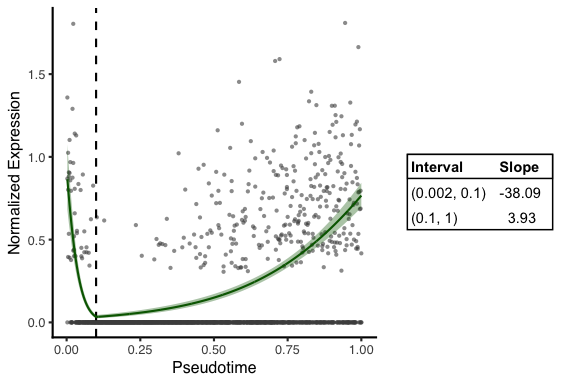
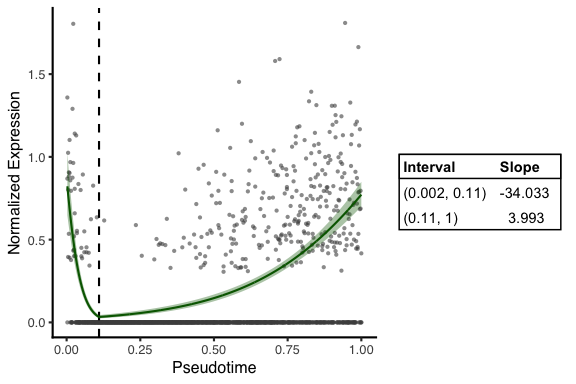
Recompiled README.Rmd

diff --git a/README.md b/README.md
@@ -25,7 +25,7 @@
 commit](https://img.shields.io/github/last-commit/jr-leary7/scLANE/main?color=darkgreen)
 [![codecov](https://codecov.io/gh/jr-leary7/scLANE/branch/main/graph/badge.svg?token=U2U5RTF2VW)](https://codecov.io/gh/jr-leary7/scLANE)
 [![CodeFactor](https://www.codefactor.io/repository/github/jr-leary7/sclane/badge)](https://www.codefactor.io/repository/github/jr-leary7/sclane)
-[![DOI](https://img.shields.io/static/v1?label=DOI&message=10.1101/2023.12.19.572477&color=blue)](https://doi.org/10.1101/2023.12.19.572477)
+[![Preprint](https://img.shields.io/static/v1?label=DOI&message=10.1101/2023.12.19.572477&color=blue)](https://doi.org/10.1101/2023.12.19.572477)
 [![License:
 MIT](https://img.shields.io/badge/License-MIT-yellow.svg)](https://opensource.org/licenses/MIT)
 <!-- badges: end -->
@@ -84,6 +84,7 @@ $\alpha = 0.01$ threshold, and classify it as static otherwise.
 library(dplyr)
 library(scLANE)
 library(ggplot2)
+library(SingleCellExperiment)
 ```
 
 ## Input data
@@ -98,7 +99,7 @@ pseudotime values are stored in the `colData` slot of the
 sim_data <- readRDS(url("https://zenodo.org/records/8433077/files/scLANE_sim_data.Rds"))
 ```
 
-The PCA embeddings show us a pretty simple trajectory that’s strongly
+The PCA embedding shows us a pretty simple trajectory that’s strongly
 correlated with the first principal component.
 
 ``` r
@@ -133,13 +134,13 @@ Since we have multi-subject data, we can use any of the three model
 modes to run our DE testing. We’ll start with the simplest model, the
 GLM, then work our way through the other options in order of increasing
 complexity. We first prepare our inputs - a dataframe containing our
-cell ordering, a set of genes to build models for, and a vector of
-per-cell size factors to be used as offsets during estimation. In
-reality, it’s usually unnecessary to fit a model for every single gene
-in a dataset, as trajectories are usually estimated using a subset of
-the entire set of genes (usually a few thousand most highly variable
-genes). For the purpose of demonstration, we’ll select 50 genes each
-from the dynamic and non-dynamic populations.
+pseudotime / latent time cellular ordering, a set of genes to build
+models for, and a vector of per-cell size factors to be used as offsets
+during estimation. In reality, it’s usually unnecessary to fit a model
+for every single gene in a dataset, as trajectories are usually
+estimated using a subset of the entire set of genes (usually a few
+thousand most highly variable genes). For the purpose of demonstration,
+we’ll select 50 genes each from the dynamic and non-dynamic populations.
 
 **Note:** In this case we’re working with a single pseudotime lineage,
 though in real datasets several lineages often exist; in order to fit
@@ -150,7 +151,7 @@ from the cell ordering dataframe passed as input to `testDynamic()`.
 set.seed(312)
 gene_sample <- c(sample(rownames(sim_data)[rowData(sim_data)$geneStatus_overall == "Dynamic"], size = 50), 
                  sample(rownames(sim_data)[rowData(sim_data)$geneStatus_overall == "NotDynamic"], size = 50))
-order_df <- data.frame(X = sim_data$cell_time_normed)
+pt_df <- data.frame(PT = sim_data$cell_time_normed)
 cell_offset <- createCellOffset(sim_data)
 ```
 
@@ -160,19 +161,19 @@ Running `testDynamic()` provides us with a nested list containing model
 output & DE test results for each gene over each pseudotime / latent
 time lineage. In this case, since we have a true cell ordering we only
 have one lineage. Parallel processing is turned on by default, and we
-use 4 cores here to speed up runtime.
+use 6 cores here to speed up runtime.
 
 ``` r
 scLANE_models_glm <- testDynamic(sim_data, 
-                                 pt = order_df, 
+                                 pt = pt_df, 
                                  genes = gene_sample, 
                                  size.factor.offset = cell_offset, 
-                                 n.cores = 4L, 
+                                 n.cores = 6L, 
                                  verbose = FALSE)
 #> Registered S3 method overwritten by 'bit':
 #>   method   from  
 #>   print.ri gamlss
-#> scLANE testing completed for 100 genes across 1 lineage in 19.707 secs
+#> scLANE testing completed for 100 genes across 1 lineage in 22.382 secs
 ```
 
 After the function finishes running, we use `getResultsDE()` to generate
@@ -192,11 +193,11 @@ select(scLANE_res_glm, Gene, Lineage, Test_Stat, P_Val, P_Val_Adj, Gene_Dynamic_
 
 | Gene   | Lineage | LRT stat. | P-value | Adj. p-value | Predicted dynamic status |
 |:-------|:--------|----------:|--------:|-------------:|-------------------------:|
-| MFSD2B | A       |   216.750 |   0.000 |        0.000 |                        1 |
-| TTC5   | A       |     5.481 |   0.019 |        0.346 |                        0 |
-| SMG1   | A       |     8.736 |   0.013 |        0.254 |                        0 |
-| TMCO3  | A       |   167.311 |   0.000 |        0.000 |                        1 |
-| FOXD3  | A       |     4.282 |   0.039 |        0.475 |                        0 |
+| MFSD2B | A       |   217.016 |   0.000 |        0.000 |                        1 |
+| LGR4   | A       |     6.685 |   0.035 |        1.000 |                        0 |
+| UAP1L1 | A       |     9.882 |   0.007 |        0.365 |                        0 |
+| TMCO3  | A       |   167.764 |   0.000 |        0.000 |                        1 |
+| MRTO4  | A       |     4.771 |   0.092 |        1.000 |                        0 |
 
 ### GEE mode
 
@@ -211,15 +212,15 @@ speeds things up considerably.
 
 ``` r
 scLANE_models_gee <- testDynamic(sim_data, 
-                                 pt = order_df, 
+                                 pt = pt_df, 
                                  genes = gene_sample, 
                                  size.factor.offset = cell_offset, 
                                  is.gee = TRUE, 
                                  id.vec = sim_data$subject, 
                                  cor.structure = "ar1", 
-                                 n.cores = 4L, 
+                                 n.cores = 6L, 
                                  verbose = FALSE)
-#> scLANE testing completed for 100 genes across 1 lineage in 1.638 mins
+#> scLANE testing completed for 100 genes across 1 lineage in 1.411 mins
 ```
 
 We again generate the table of DE test results. The variance of the
@@ -235,13 +236,13 @@ select(scLANE_res_gee, Gene, Lineage, Test_Stat, P_Val, P_Val_Adj, Gene_Dynamic_
                col.names = c("Gene", "Lineage", "Wald stat.", "P-value", "Adj. p-value", "Predicted dynamic status"))
 ```
 
-| Gene   | Lineage | Wald stat. | P-value | Adj. p-value | Predicted dynamic status |
-|:-------|:--------|-----------:|--------:|-------------:|-------------------------:|
-| BAD    | A       | 136315.561 |       0 |            0 |                        1 |
-| MPLKIP | A       |     29.814 |       0 |            0 |                        1 |
-| LY6G5C | A       |         NA |      NA |           NA |                        0 |
-| PCF11  | A       |   4336.078 |       0 |            0 |                        1 |
-| WAPAL  | A       |   2761.705 |       0 |            0 |                        1 |
+| Gene  | Lineage | Wald stat. | P-value | Adj. p-value | Predicted dynamic status |
+|:------|:--------|-----------:|--------:|-------------:|-------------------------:|
+| BAD   | A       | 159682.044 |       0 |            0 |                        1 |
+| RPL29 | A       |     32.647 |       0 |            0 |                        1 |
+| HOXC8 | A       |         NA |      NA |           NA |                        0 |
+| DDX41 | A       |   4216.586 |       0 |            0 |                        1 |
+| PFDN2 | A       |   2362.431 |       0 |            0 |                        1 |
 
 ### GLMM mode
 
@@ -257,15 +258,15 @@ correlation structure.
 
 ``` r
 scLANE_models_glmm <- testDynamic(sim_data, 
-                                  pt = order_df, 
+                                  pt = pt_df, 
                                   genes = gene_sample, 
                                   size.factor.offset = cell_offset, 
                                   n.potential.basis.fns = 3, 
                                   is.glmm = TRUE, 
                                   id.vec = sim_data$subject, 
-                                  n.cores = 4L, 
+                                  n.cores = 6L, 
                                   verbose = FALSE)
-#> scLANE testing completed for 100 genes across 1 lineage in 4.52 mins
+#> scLANE testing completed for 100 genes across 1 lineage in 3.385 mins
 ```
 
 **Note:** The GLMM mode is still under development, as we are working on
@@ -287,11 +288,11 @@ select(scLANE_res_glmm, Gene, Lineage, Test_Stat, P_Val, P_Val_Adj, Gene_Dynamic
 
 | Gene    | Lineage | LRT stat. | P-value | Adj. p-value | Predicted dynamic status |
 |:--------|:--------|----------:|--------:|-------------:|-------------------------:|
-| TIMP1   | A       |   172.327 |   0.000 |            0 |                        1 |
-| NPC2    | A       |   128.963 |   0.000 |            0 |                        1 |
-| ARL8A   | A       |     4.819 |   0.998 |            1 |                        0 |
-| SFMBT2  | A       |     2.454 |   1.000 |            1 |                        0 |
-| TRAPPC1 | A       |    89.370 |   0.000 |            0 |                        1 |
+| DGUOK   | A       |   189.791 |   0.000 |            0 |                        1 |
+| MRPL42  | A       |   140.485 |   0.000 |            0 |                        1 |
+| MYOF    | A       |     5.036 |   0.998 |            1 |                        0 |
+| FOXD3   | A       |     2.589 |   1.000 |            1 |                        0 |
+| KLHDC10 | A       |   108.050 |   0.000 |            0 |                        1 |
 
 ## Downstream analysis & visualization
 
@@ -313,7 +314,7 @@ more interpretable.
 ``` r
 plotModels(scLANE_models_glm, 
            gene = scLANE_res_glm$Gene[1], 
-           pt = order_df, 
+           pt = pt_df, 
            expr.mat = sim_data, 
            size.factor.offset = cell_offset, 
            plot.null = TRUE, 
@@ -332,7 +333,7 @@ dynamics differ significantly by subject.
 ``` r
 plotModels(scLANE_models_glmm, 
            gene = scLANE_res_glmm$Gene[1], 
-           pt = order_df, 
+           pt = pt_df, 
            expr.mat = sim_data, 
            size.factor.offset = cell_offset, 
            id.vec = sim_data$subject, 
@@ -362,14 +363,14 @@ scLANE_models_glm[["JARID2"]]$Lineage_A$Gene_Dynamics %>%
 
 | Gene   | Lineage | Breakpoint | First Slope | Second Slope | First Trend | Second Trend |
 |:-------|:--------|-----------:|------------:|-------------:|------------:|-------------:|
-| JARID2 | A       |        0.1 |      -38.09 |         3.93 |          -1 |            1 |
+| JARID2 | A       |       0.11 |      -34.03 |         3.99 |          -1 |            1 |
 
 Coefficients can also be plotted like so:
 
 ``` r
 plotModelCoefs(scLANE_models_glm, 
                gene = "JARID2", 
-               pt = order_df, 
+               pt = pt_df, 
                expr.mat = sim_data,
                size.factor.offset = cell_offset)
 ```
@@ -398,7 +399,6 @@ ggplot(knot_dist, aes(x = knot)) +
                linewidth = 0.75) + 
   labs(x = "Knot Location", y = "Density") + 
   theme_scLANE()
-#> `stat_bin()` using `bins = 30`. Pick better value with `binwidth`.
 ```
 
 <img src="man/figures/README-plot-knot-dist-1.png" width="100%" />
@@ -411,7 +411,7 @@ the `smoothedCountsMatrix()` function.
 ``` r
 smoothed_dynamics <- smoothedCountsMatrix(scLANE_models_glm, 
                                           size.factor.offset = cell_offset, 
-                                          pt = order_df, 
+                                          pt = pt_df, 
                                           genes = dyn_genes)
 ```
 
@@ -435,7 +435,7 @@ vs. random effects though, and consult a biostatistician if necessary.
 If you have a large dataset (10,000+ cells), you should start with the
 GLM mode, since standard error estimates don’t differ much between
 modeling methods given high enough *n*. In addition, running the tests
-on an HPC cluster with 4+ CPUs and 64+ GB of RAM will help your
+on an HPC cluster with 12+ CPUs and 64+ GB of RAM will help your
 computations to complete swiftly. Datasets with smaller numbers of cells
 or fewer genes of interest may be easily analyzed in an R session on a
 local machine.
